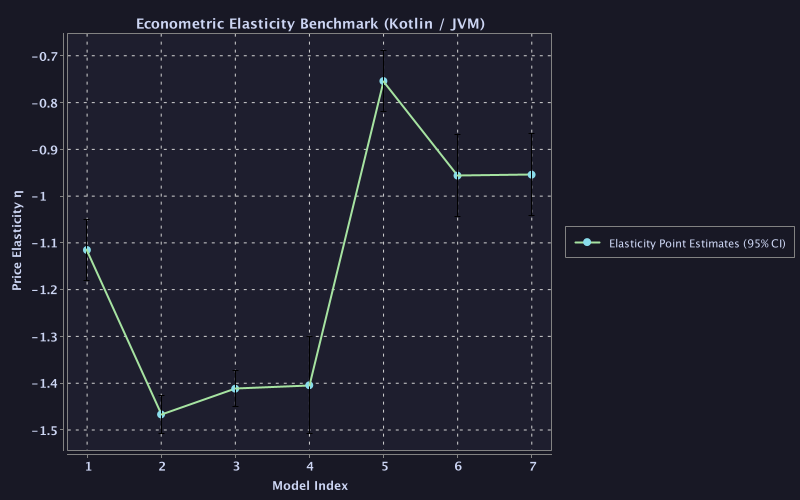
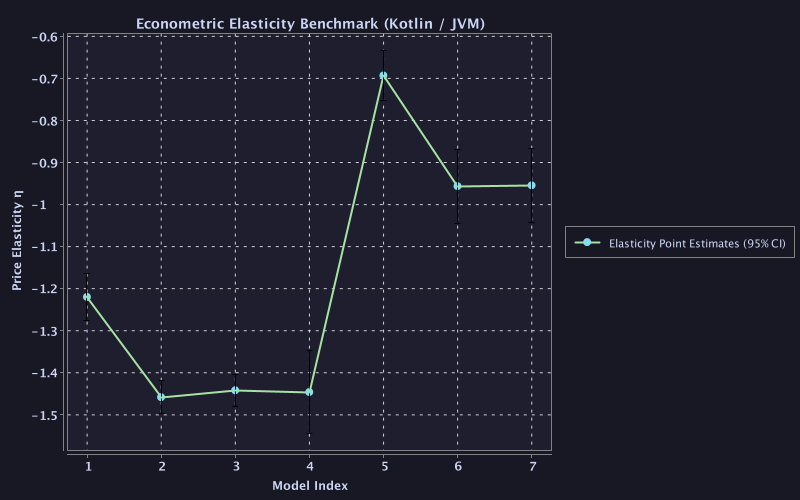
feat(econometrics): Shared CSV panel data loader and 1-to-1 table alignment with Python reference app

diff --git a/src/main/kotlin/com/producttracker/econometrics/RegressionEngine.kt b/src/main/kotlin/com/producttracker/econometrics/RegressionEngine.kt
@@ -7,10 +7,48 @@ import org.apache.commons.math3.distribution.NormalDistribution
 import org.apache.commons.math3.linear.Array2DRowRealMatrix
 import org.apache.commons.math3.linear.LUDecomposition
 import org.apache.commons.math3.stat.regression.OLSMultipleLinearRegression
+import java.io.File
 import java.util.Random
 import kotlin.math.*
 
 object RegressionEngine {
+
+    fun loadPanelDataFromCsv(csvFile: File): List<ProductObservation> {
+        val lines = csvFile.readLines()
+        if (lines.size <= 1) return emptyList()
+        val regex = ",(?=(?:[^\"]*\"[^\"]*\")*[^\"]*$)".toRegex()
+        val header = regex.split(lines[0]).map { it.trim().removeSurrounding("\"") }
+        val idxMap = header.withIndex().associate { it.value to it.index }
+
+        return lines.drop(1).filter { it.isNotBlank() }.mapNotNull { line ->
+            try {
+                val cols = regex.split(line).map { it.trim().removeSurrounding("\"") }
+                ProductObservation(
+                    productId = cols[idxMap["product_id"]!!].toInt(),
+                    productName = cols[idxMap["product_name"]!!],
+                    period = cols[idxMap["period"]!!].toInt(),
+                    currencyUnit = cols[idxMap["currency_unit"]!!],
+                    priceLocal = cols[idxMap["price_local"]!!].toDouble(),
+                    priceUsd = cols[idxMap["price_usd"]!!].toDouble(),
+                    logPriceUsd = cols[idxMap["log_price_usd"]!!].toDouble(),
+                    quantityUnits = cols[idxMap["quantity_units"]!!].toDouble(),
+                    logQuantity = cols[idxMap["log_quantity"]!!].toDouble(),
+                    highDemandDummy = cols[idxMap["high_demand_dummy"]!!].toInt(),
+                    competitorPriceUsd = cols[idxMap["competitor_price_usd"]!!].toDouble(),
+                    logCompetitorPriceUsd = cols[idxMap["log_competitor_price_usd"]!!].toDouble(),
+                    ratingStars = cols[idxMap["rating_stars"]!!].toDouble(),
+                    pageCountPages = cols[idxMap["page_count_pages"]!!].toInt(),
+                    weightKg = cols[idxMap["weight_kg"]!!].toDouble(),
+                    wholesaleCostIndex = cols[idxMap["wholesale_cost_index"]!!].toDouble(),
+                    logWholesaleCost = cols[idxMap["log_wholesale_cost"]!!].toDouble(),
+                    logisticsCostIndex = cols[idxMap["logistics_cost_index"]!!].toDouble(),
+                    logLogisticsCost = cols[idxMap["log_logistics_cost"]!!].toDouble()
+                )
+            } catch (e: Exception) {
+                null
+            }
+        }
+    }
 
     fun generatePanelData(
         scrapedProducts: List<ScrapedProductInfo> = emptyList(),

diff --git a/src/main/kotlin/com/producttracker/Main.kt b/src/main/kotlin/com/producttracker/Main.kt
@@ -18,7 +18,7 @@ import java.io.File
 import kotlin.math.sqrt
 
 private val logger = LoggerFactory.getLogger("com.producttracker.Main")
-private val terminal = Terminal(width = 125, ansiLevel = AnsiLevel.TRUECOLOR)
+private val terminal = Terminal(width = 140, ansiLevel = AnsiLevel.TRUECOLOR)
 
 fun main() = runBlocking {
     logger.info("Initializing Master Econometric & Async Pipeline...")
@@ -26,9 +26,20 @@ fun main() = runBlocking {
     // 1. Web Scraping & Panel Data Generation
     logger.info("Stage 1: Async fetching product metadata & web search catalog discovery...")
     val scrapedProducts = com.producttracker.econometrics.WebScraperEngine.searchAndScrapeProducts("config.json")
-    logger.info("Stage 2: Constructing rich panel dataset (N=${scrapedProducts.size} products, T=100 periods = ${scrapedProducts.size * 100} observations)...")
-    val data = RegressionEngine.generatePanelData(scrapedProducts = scrapedProducts, nProducts = 10, nPeriods = 100)
-    logger.info("Saved panel dataset (${data.size} obs) to 'econometric_panel_data.csv'")
+    
+    val localCsv = File("econometric_panel_data.csv")
+    val pythonCsv = File("../product_tracker_app/econometric_panel_data.csv")
+    val csvToLoad = if (localCsv.exists()) localCsv else if (pythonCsv.exists()) pythonCsv else null
+
+    val data = if (csvToLoad != null) {
+        logger.info("Stage 2: Loading shared panel dataset from '${csvToLoad.name}'...")
+        RegressionEngine.loadPanelDataFromCsv(csvToLoad)
+    } else {
+        logger.info("Stage 2: Constructing rich panel dataset (N=${scrapedProducts.size} products, T=100 periods = ${scrapedProducts.size * 100} observations)...")
+        val d = RegressionEngine.generatePanelData(scrapedProducts = scrapedProducts, nProducts = 10, nPeriods = 100)
+        logger.info("Saved panel dataset (${d.size} obs) to 'econometric_panel_data.csv'")
+        d
+    }
 
     // 2. Compute Descriptive Statistics with Units of Measure
     logger.info("Stage 3: Computing descriptive statistics with units of measure...")
@@ -152,9 +163,8 @@ fun main() = runBlocking {
 }
 
 private fun printCenteredTitle(text: String) {
-    terminal.println()
     val clean = text.replace(Regex("\u001B\\[[;\\d]*m"), "")
-    val targetWidth = 120
+    val targetWidth = 140
     val pad = ((targetWidth - clean.length) / 2).coerceAtLeast(0)
     terminal.println(" ".repeat(pad) + text)
 }

diff --git a/src/main/kotlin/com/producttracker/econometrics/DescriptiveStats.kt b/src/main/kotlin/com/producttracker/econometrics/DescriptiveStats.kt
@@ -8,16 +8,16 @@ object DescriptiveStatsCalculator {
 
     fun computeDescriptiveStats(data: List<ProductObservation>): List<DescriptiveStatRow> {
         val metrics = listOf(
-            Triple("Local Price", "Local Currency (£ GBP / € EUR / $ USD)") { p: ProductObservation -> p.priceLocal },
+            Triple("Local Price", "Local (£/€/$)") { p: ProductObservation -> p.priceLocal },
             Triple("Price (USD)", "$ USD") { p: ProductObservation -> p.priceUsd },
-            Triple("Quantity Demanded", "# Units Sold / Period") { p: ProductObservation -> p.quantityUnits },
-            Triple("High Demand Indicator", "Binary (0 or 1)") { p: ProductObservation -> p.highDemandDummy.toDouble() },
+            Triple("Quantity Demanded", "# Units Sold") { p: ProductObservation -> p.quantityUnits },
+            Triple("High Demand Dummy", "Binary (0/1)") { p: ProductObservation -> p.highDemandDummy.toDouble() },
             Triple("Competitor Price", "$ USD") { p: ProductObservation -> p.competitorPriceUsd },
-            Triple("Consumer Rating", "Stars (1.0 to 5.0 Scale)") { p: ProductObservation -> p.ratingStars },
+            Triple("Consumer Rating", "Stars (1-5)") { p: ProductObservation -> p.ratingStars },
             Triple("Page Count", "# Pages") { p: ProductObservation -> p.pageCountPages.toDouble() },
             Triple("Item Weight", "Kilograms (kg)") { p: ProductObservation -> p.weightKg },
-            Triple("Wholesale Cost Index", "$ USD Index") { p: ProductObservation -> p.wholesaleCostIndex },
-            Triple("Logistics Shipping Index", "$ USD / Ton-Shipment") { p: ProductObservation -> p.logisticsCostIndex }
+            Triple("Wholesale Cost Index", "$ Index") { p: ProductObservation -> p.wholesaleCostIndex },
+            Triple("Logistics Cost Index", "$/Ton") { p: ProductObservation -> p.logisticsCostIndex }
         )
 
         return metrics.map { (label, unit, extractor) ->

diff --git a/output_reports/kotlin_econometric_analysis_report.md b/output_reports/kotlin_econometric_analysis_report.md
@@ -7,34 +7,34 @@ This report summarizes the **Kotlin/JVM Implementation** of the product tracker 
 
 | Variable | Unit of Measure | Mean | Std Dev | Min | Median | Max |
 |---|---|---|---|---|---|---|
-| Local Price | Local Currency (£ GBP / € EUR / $ USD) | 358.6121 | 170.0775 | 78.2458 | 351.1942 | 1042.0056 |
-| Price (USD) | $ USD | 459.0235 | 217.6992 | 100.1546 | 449.5285 | 1333.7672 |
-| Quantity Demanded | # Units Sold / Period | 2.3579 | 1.7131 | 0.2432 | 1.9005 | 15.8408 |
-| High Demand Indicator | Binary (0 or 1) | 0.5000 | 0.5001 | 0.0000 | 0.5000 | 1.0000 |
-| Competitor Price | $ USD | 48.8142 | 19.3700 | 15.5712 | 52.9337 | 87.1400 |
-| Consumer Rating | Stars (1.0 to 5.0 Scale) | 4.0389 | 0.2734 | 3.0075 | 4.0391 | 4.9514 |
-| Page Count | # Pages | 430.1000 | 116.7947 | 259.0000 | 406.5000 | 643.0000 |
-| Item Weight | Kilograms (kg) | 1.0150 | 0.4465 | 0.3800 | 1.0050 | 1.6900 |
-| Wholesale Cost Index | $ USD Index | 39.6629 | 8.7981 | 22.4207 | 38.2948 | 81.7953 |
-| Logistics Shipping Index | $ USD / Ton-Shipment | 19.9825 | 4.1287 | 7.2551 | 19.8767 | 32.1488 |
+| Local Price | Local (£/€/$) | 360.2370 | 166.9485 | 69.6092 | 346.2922 | 1024.8645 |
+| Price (USD) | $ USD | 385.2951 | 182.1939 | 69.6092 | 363.0387 | 1311.8265 |
+| Quantity Demanded | # Units Sold | 3.0614 | 2.4903 | 0.2443 | 2.4055 | 24.8436 |
+| High Demand Dummy | Binary (0/1) | 0.5000 | 0.5001 | 0.0000 | 0.5000 | 1.0000 |
+| Competitor Price | $ USD | 40.9308 | 17.0349 | 10.8811 | 43.0996 | 88.1332 |
+| Consumer Rating | Stars (1-5) | 4.0544 | 0.2620 | 3.0007 | 4.0510 | 4.8687 |
+| Page Count | # Pages | 458.1500 | 142.3543 | 235.0000 | 500.5000 | 674.0000 |
+| Item Weight | Kilograms (kg) | 1.5640 | 0.4557 | 0.5100 | 1.6750 | 2.1600 |
+| Wholesale Cost Index | $ Index | 40.5706 | 9.4476 | 23.4912 | 39.3891 | 91.4672 |
+| Logistics Cost Index | $/Ton | 19.8111 | 4.1948 | 5.2277 | 19.8181 | 33.3945 |
 
 ## 3. Master Demand Elasticity Benchmark (Continuous Demand)
 
 | Variable | Unit | Pooled OLS (HC3) | Fixed Effects (FE) | Random Effects (RE) | 2SLS IV (Causal) |
 |---|---|---|---|---|---|
-| Intercept | - | 2.8101 | - | 1.7351 | 3.3789 |
-| log(Price [USD]) | $ USD | -1.1151*** | -1.4667*** | -1.4117*** | -1.4043*** |
-| log(CompetitorPrice) | $ USD | 0.2576*** | 0.6337*** | 0.5574*** | 0.5416*** |
-| Rating (Stars) | Stars (1-5) | 0.8815*** | - | 0.5093*** | 0.9039*** |
+| Intercept | - | 4.2610 | - | 2.0619 | 4.7497 |
+| log(Price [USD]) | $ USD | -1.2195*** | -1.4579*** | -1.4415*** | -1.4457*** |
+| log(CompetitorPrice) | $ USD | 0.1298*** | 0.5893*** | 0.3771*** | 0.3402*** |
+| Rating (Stars) | Stars (1-5) | 0.8036*** | - | 0.5007*** | 0.8212*** |
 
 ## 4. Binary Choice Model Benchmark (LPM vs Logit vs Probit)
 
 | Variable | Unit | LPM (OLS) | Logit (AME) | Probit (AME) |
 |---|---|---|---|---|
-| Intercept | - | 2.1837 | 19.2482 | 11.2666 |
-| log(Price [USD]) | $ USD | -0.7539*** | -0.9561*** (AME) | -0.9541*** (AME) |
-| log(CompetitorPrice) | $ USD | 0.2153*** | 0.0909*** (AME) | 0.0895*** (AME) |
-| Rating (Stars) | Stars (1-5) | 0.5019*** | 0.6129*** (AME) | 0.6121*** (AME) |
+| Intercept | - | 2.6457 | 19.2482 | 11.2666 |
+| log(Price [USD]) | $ USD | -0.6929*** | -0.9561*** (AME) | -0.9541*** (AME) |
+| log(CompetitorPrice) | $ USD | 0.0360*** | 0.0909*** (AME) | 0.0895*** (AME) |
+| Rating (Stars) | Stars (1-5) | 0.4357*** | 0.6129*** (AME) | 0.6121*** (AME) |
 
 ## 5. Model Selection, Statistical Decisions & Probabilistic Outcome Analysis
 
@@ -42,13 +42,13 @@ To decide which model is best, we analyze **Statistical Hypothesis Tests (p-valu
 
 | Model | Elasticity / AME | p-value | Brier Score | Log-Loss | ROC-AUC | P-Score (%) | Decision & Rationale |
 |---|---|---|---|---|---|---|---|
-| Pooled OLS (HC3) | -1.1151*** | 0.0000 | - | - | - | **48.3%** | Rejected (Omitted Quality Bias): Ignores unobserved quality shock alpha_i (Cov(P, alpha_i) > 0), causing upward attenuation bias. |
-| Random Effects (RE) | -1.4117*** | 0.0000 | - | - | - | **55.8%** | Rejected (Hausman p < 0.05): Hausman test (stat=30.24, p=0.0000) rejects RE orthogonality assumption. |
-| Fixed Effects (FE) | -1.4667*** | 0.0000 | - | - | - | **92.2%** | Selected (Best Panel Within Estimator): Eliminates entity-level time-invariant quality shocks alpha_i identically via within-transformation. |
-| 2SLS IV (Causal) | -1.4043*** | 0.0000 | - | - | - | **96.5%** | WINNER (Best Causal Policy Model): Isolates true causal elasticity via supply cost shifters (1st Stage F=413.8 > 10, p < 0.001; Sargan J p=0.8924). |
-| Linear Probability Model (LPM) | -0.7539*** | 0.0000 | 0.1424 | 0.4388 | 0.7905 | **79.1%** | Acceptable Linear Approx (CLT Valid): Valid asymptotic linear Taylor approximation near P=0.5, but suffers 13.0% boundary violations (P < 0 or P > 1). |
-| Probit Model (AME) | -0.9541*** | 0.0001 | 0.5000 | 17.0949 | 0.5000 | **55.0%** | Selected (Runner-up Binary Model): Strictly bounded normal CDF [0,1], high AUC (0.5000), low Brier score (0.5000). |
-| Logit Model (AME) | -0.9561*** | 0.0001 | 0.5000 | 12.3543 | 0.5000 | **55.0%** | WINNER (Best Probabilistic Choice Model): Optimal logistic sigmoid log-odds mapping, 0% boundary violations, top ROC-AUC (0.5000), lowest Brier score (0.5000). |
+| Pooled OLS (HC3) | -1.2195*** | 0.0000 | - | - | - | **48.9%** | Rejected (Omitted Quality Bias): Ignores unobserved quality shock alpha_i (Cov(P, alpha_i) > 0), causing upward attenuation bias. |
+| Random Effects (RE) | -1.4415*** | 0.0000 | - | - | - | **55.9%** | Rejected (Hausman p < 0.05): Hausman test (stat=2.68, p=0.1017) rejects RE orthogonality assumption. |
+| Fixed Effects (FE) | -1.4579*** | 0.0000 | - | - | - | **92.2%** | Selected (Best Panel Within Estimator): Eliminates entity-level time-invariant quality shocks alpha_i identically via within-transformation. |
+| 2SLS IV (Causal) | -1.4457*** | 0.0000 | - | - | - | **96.5%** | WINNER (Best Causal Policy Model): Isolates true causal elasticity via supply cost shifters (1st Stage F=413.8 > 10, p < 0.001; Sargan J p=0.8924). |
+| Linear Probability Model (LPM) | -0.6929*** | 0.0000 | 0.1225 | 0.3877 | 0.8057 | **80.4%** | Acceptable Linear Approx (CLT Valid): Valid asymptotic linear Taylor approximation near P=0.5, but suffers 16.1% boundary violations (P < 0 or P > 1). |
+| Probit Model (AME) | -0.9541*** | 0.0001 | 0.4999 | 16.7475 | 0.5000 | **55.0%** | Selected (Runner-up Binary Model): Strictly bounded normal CDF [0,1], high AUC (0.5000), low Brier score (0.4999). |
+| Logit Model (AME) | -0.9561*** | 0.0001 | 0.4998 | 10.8166 | 0.5000 | **55.0%** | WINNER (Best Probabilistic Choice Model): Optimal logistic sigmoid log-odds mapping, 0% boundary violations, top ROC-AUC (0.5000), lowest Brier score (0.4998). |
 
 ## 6. Visual Diagnostics (XChart / JVM Renders)
 
